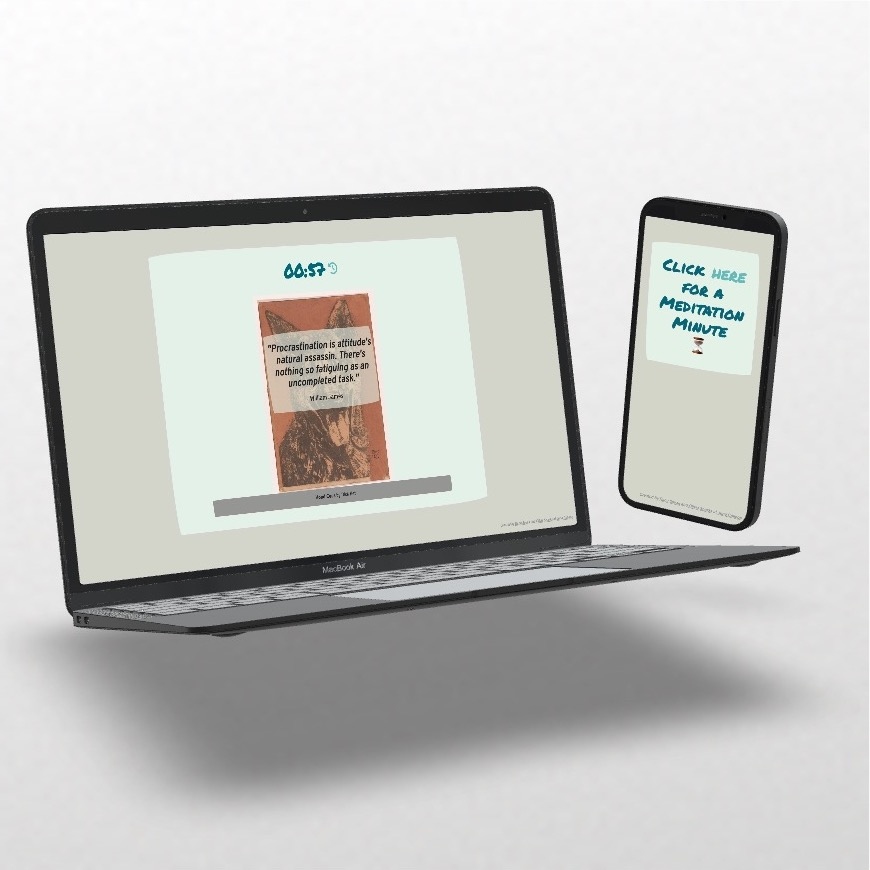
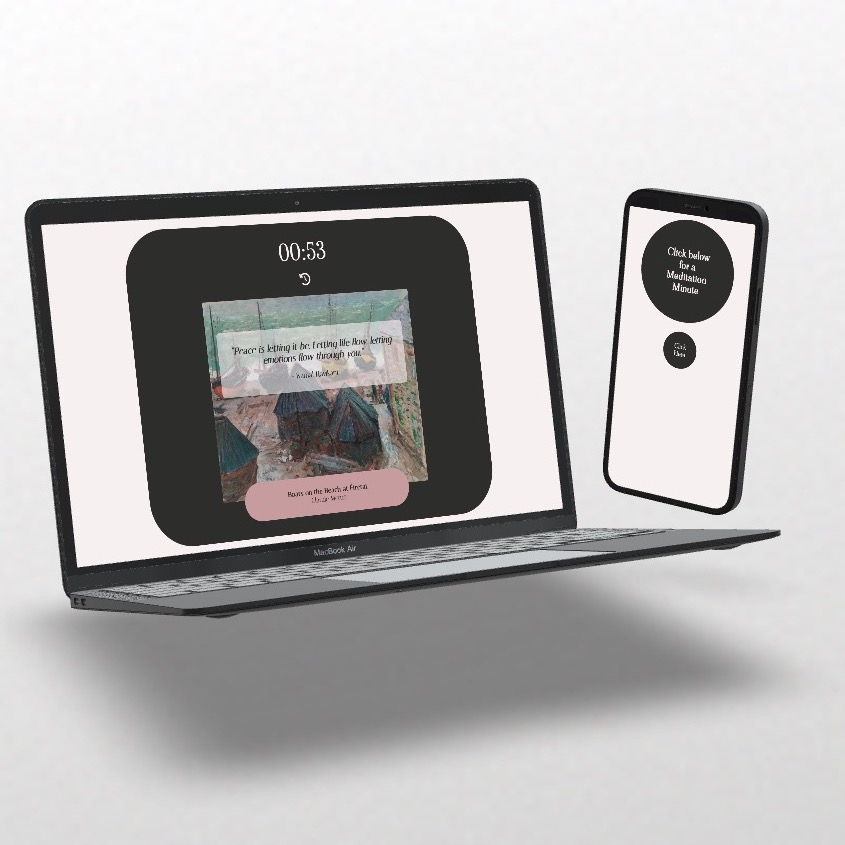
updated Meditation Minute photo & desc

Changed region(s): [[0.0308, 0.1846, 0.9231, 0.7077], [0.8923, 0.6154, 0.9231, 0.6462]]

diff --git a/index.html b/index.html
@@ -333,7 +333,7 @@
                                 Sometimes you just need to take a minute & have a breather. Never meditated before? Don't worry! All the heavy meditation lifting is done for you with this app. 
                             </p>
                             <p>
-                                Meditation Minute utilizes two APIs to fetch and display data in response to user interaction. This is a Paired Programing project with <a href="https://ranasoyakcodes.dev" target="_blank"  aria-label="link text - new window">Rana Soyak</a>.
+                                Meditation Minute utilizes two APIs to fetch and display data in response to user interaction. This was originally a paired programing project with <a href="https://ranasoyakcodes.dev" target="_blank"  aria-label="link text - new window">Rana Soyak</a> Further updates have been implemented individually.
                             </p>
                             <ul class="tech-stack">
                                 <li class="skill">
